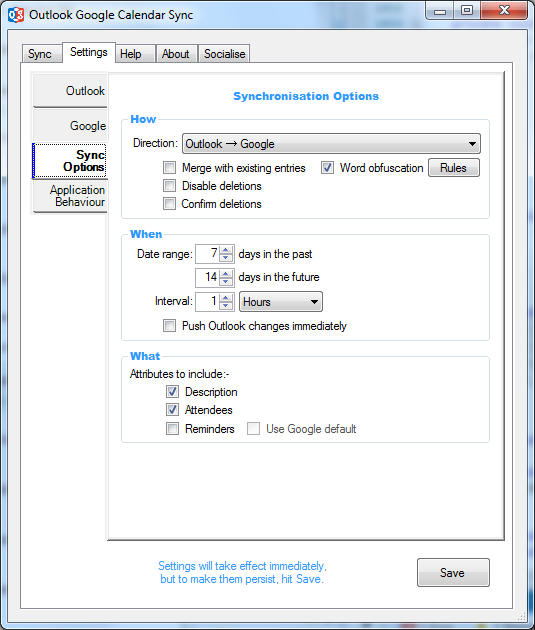
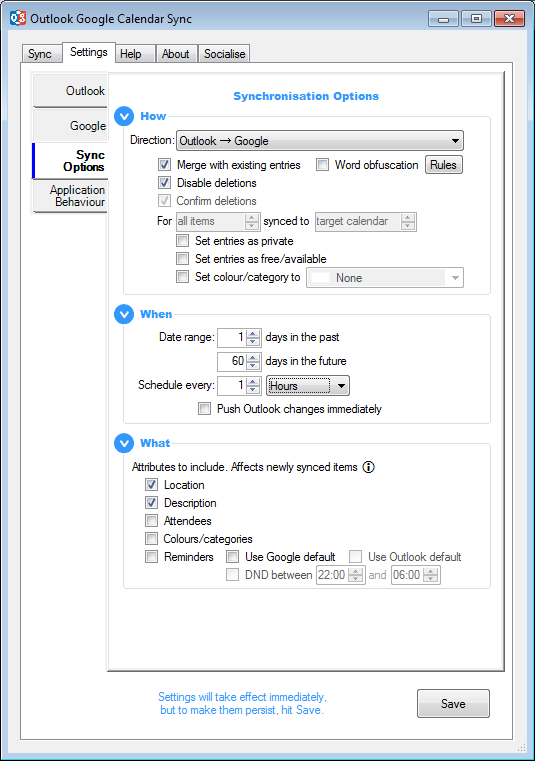
v2.8.0

Changed region(s): [[0.0, 0.0, 1.0, 1.0], [0.4785, 0.6635, 0.6879, 0.6937], [0.8972, 0.6032, 0.9271, 0.7238]]

diff --git a/src/OutlookGoogleCalendarSync/Forms/ErrorReporting.Designer.cs b/src/OutlookGoogleCalendarSync/Forms/ErrorReporting.Designer.cs
@@ -78,7 +78,7 @@
             this.lTitle.Font = new System.Drawing.Font("Microsoft Sans Serif", 11.25F, System.Drawing.FontStyle.Bold, System.Drawing.GraphicsUnit.Point, ((byte)(0)));
             this.lTitle.Location = new System.Drawing.Point(12, 9);
             this.lTitle.Name = "lTitle";
-            this.lTitle.Size = new System.Drawing.Size(190, 18);
+            this.lTitle.Size = new System.Drawing.Size(194, 18);
             this.lTitle.TabIndex = 5;
             this.lTitle.Text = "Help make OGCS better!";
             // 
@@ -153,7 +153,7 @@
             this.tbLog.Text = "";
             this.tbLog.WordWrap = false;
             // 
-            // CloudLogging
+            // ErrorReporting
             // 
             this.AcceptButton = this.btYes;
             this.AutoScaleDimensions = new System.Drawing.SizeF(6F, 13F);
@@ -172,7 +172,7 @@
             this.MaximizeBox = false;
             this.MinimizeBox = false;
             this.MinimumSize = new System.Drawing.Size(703, 431);
-            this.Name = "CloudLogging";
+            this.Name = "ErrorReporting";
             this.Text = "OGCS Error Encountered";
             this.TopMost = true;
             this.Load += new System.EventHandler(this.CloudLogging_Load);

diff --git a/src/OutlookGoogleCalendarSync/Properties/AssemblyInfo.cs b/src/OutlookGoogleCalendarSync/Properties/AssemblyInfo.cs
@@ -13,7 +13,7 @@ using System.Runtime.InteropServices;
 [assembly: AssemblyConfiguration("")]
 [assembly: AssemblyCompany("Paul Woolcock")]
 [assembly: AssemblyProduct("Outlook Google Calendar Sync")]
-[assembly: AssemblyCopyright("Copyright 2014")]
+[assembly: AssemblyCopyright("Copyright 2019")]
 [assembly: AssemblyTrademark("")]
 [assembly: AssemblyCulture("")]
 
@@ -27,7 +27,7 @@ using System.Runtime.InteropServices;
 //
 // You can specify all the values or you can use the default the Revision and 
 // Build Numbers by using the '*' as shown below:
-[assembly: AssemblyVersion("2.7.*")]
-[assembly: AssemblyFileVersion("2.7.9.0")]
+[assembly: AssemblyVersion("2.8.*")]
+[assembly: AssemblyFileVersion("2.8.0.0")]
 
 [assembly: AssemblyMetadata("SquirrelAwareVersion", "1")]

diff --git a/src/OutlookGoogleCalendarSync/Extensions/ILogExtension.cs b/src/OutlookGoogleCalendarSync/Extensions/ILogExtension.cs
@@ -100,7 +100,7 @@ namespace OutlookGoogleCalendarSync {
             Telemetry.Send(Analytics.Category.ogcs, Analytics.Action.setting, "CloudLogging=" + confirmative.ToString());
 
             try {
-                Forms.Main.Instance.SetControlPropertyThreadSafe(Forms.Main.Instance.cbCloudLogging, "Checked", confirmative);
+                Forms.Main.Instance.SetControlPropertyThreadSafe(Forms.Main.Instance.cbCloudLogging, "CheckState", confirmative ? CheckState.Checked : CheckState.Unchecked);
             } catch { }
 
             if (confirmative) replayLogs();

diff --git a/README.md b/README.md
@@ -9,7 +9,7 @@
 <img src="https://raw.githubusercontent.com/phw198/OutlookGoogleCalendarSync/master/docs/images/development.jpg" v
 align="left" width="100px"/> 
 A lot of work has gone in to this project.  
-If you would like to support me and further development of this tool, please [![donate](https://www.paypalobjects.com/en_GB/i/btn/btn_donate_SM.gif)](https://www.paypal.com/cgi-bin/webscr?cmd=_s-xclick&hosted_button_id=RT46CXQDSSYWJ&item_name=Outlook%20Google%20Calendar%20Sync%20donation.%20For%20splash%20screen%20hiding,%20enter%20your%20Gmail%20address%20in%20comment%20section)  
+If you would like to support me and further development of this tool, please [![donate](https://www.paypalobjects.com/en_GB/i/btn/btn_donate_SM.gif)](https://www.paypal.com/cgi-bin/webscr?cmd=_s-xclick&hosted_button_id=44DUQ7UT6WE2C&item_name=Outlook%20Google%20Calendar%20Sync%20donation.%20For%20splash%20screen%20hiding,%20enter%20your%20Gmail%20address%20in%20comment%20section)  
 If you find a bug, [help squash it](https://github.com/phw198/OutlookGoogleCalendarSync/wiki/Reporting-Problems)! :beetle:  
 
 
@@ -17,41 +17,25 @@ If you find a bug, [help squash it](https://github.com/phw198/OutlookGoogleCalen
 
 ## Downloads & Statistics
 :gear: [See the wiki](https://github.com/phw198/OutlookGoogleCalendarSync/wiki) for install, configuration guides and more.
-### Latest Beta Release: [![Latest Release](https://img.shields.io/github/release/phw198/OutlookGoogleCalendarSync.svg)](https://github.com/phw198/OutlookGoogleCalendarSync/releases/latest) [![Latest Release downloads](https://img.shields.io/github/downloads/phw198/outlookgooglecalendarsync/v2.7.0-beta/total.svg)](https://github.com/phw198/OutlookGoogleCalendarSync/releases/latest)
+### Latest Beta Release: [![Latest Release](https://img.shields.io/github/release/phw198/OutlookGoogleCalendarSync.svg)](https://github.com/phw198/OutlookGoogleCalendarSync/releases/latest) [![Latest Release downloads](https://img.shields.io/github/downloads/phw198/outlookgooglecalendarsync/v2.8.0-beta/total.svg)](https://github.com/phw198/OutlookGoogleCalendarSync/releases/latest)
 
-:floppy_disk: [Installer](https://github.com/phw198/OutlookGoogleCalendarSync/releases/download/v2.7.0-beta/Setup.exe)  
- &nbsp;&nbsp;&nbsp;&nbsp;&nbsp;[![](https://img.shields.io/github/downloads/phw198/outlookgooglecalendarsync/v2.7.0-beta/Setup.exe.svg)](https://github.com/phw198/OutlookGoogleCalendarSync/releases/download/v2.7.0-beta/Setup.exe)
+:floppy_disk: [Installer](https://github.com/phw198/OutlookGoogleCalendarSync/releases/download/v2.8.0-beta/Setup.exe)  
+ &nbsp;&nbsp;&nbsp;&nbsp;&nbsp;[![](https://img.shields.io/github/downloads/phw198/outlookgooglecalendarsync/v2.8.0-beta/Setup.exe.svg)](https://github.com/phw198/OutlookGoogleCalendarSync/releases/download/v2.8.0-beta/Setup.exe)
  
-:package: [Portable ZIP](https://github.com/phw198/OutlookGoogleCalendarSync/releases/download/v2.7.0-beta/Portable_OGCS_v2.7.0.zip)  
- &nbsp;&nbsp;&nbsp;&nbsp;&nbsp;[![](https://img.shields.io/github/downloads/phw198/outlookgooglecalendarsync/v2.7.0-beta/Portable_OGCS_v2.7.0.zip.svg)](https://github.com/phw198/OutlookGoogleCalendarSync/releases/download/v2.7.0-beta/Portable_OGCS_v2.7.0.zip)
+:package: [Portable ZIP](https://github.com/phw198/OutlookGoogleCalendarSync/releases/download/v2.8.0-beta/Portable_OGCS_v2.8.0.zip)  
+ &nbsp;&nbsp;&nbsp;&nbsp;&nbsp;[![](https://img.shields.io/github/downloads/phw198/outlookgooglecalendarsync/v2.8.0-beta/Portable_OGCS_v2.8.0.zip.svg)](https://github.com/phw198/OutlookGoogleCalendarSync/releases/download/v2.8.0-beta/Portable_OGCS_v2.8.0.zip)
 
 :information_source: Upgrades to this release  
- &nbsp;&nbsp;&nbsp;&nbsp;&nbsp;![](https://img.shields.io/github/downloads/phw198/outlookgooglecalendarsync/v2.7.0-beta/OutlookGoogleCalendarSync-2.7.0-beta-full.nupkg.svg)  
- &nbsp;&nbsp;&nbsp;&nbsp;&nbsp;![](https://img.shields.io/github/downloads/phw198/outlookgooglecalendarsync/v2.7.0-beta/OutlookGoogleCalendarSync-2.7.0-beta-delta.nupkg.svg)
-
-### Latest Alpha Release: [![Latest Release](https://img.shields.io/github/release/phw198/OutlookGoogleCalendarSync/all.svg)](https://github.com/phw198/OutlookGoogleCalendarSync/releases/tag/v2.7.9-alpha) [![Latest Release downloads](https://img.shields.io/github/downloads/phw198/outlookgooglecalendarsync/v2.7.9-alpha/total.svg)](https://github.com/phw198/OutlookGoogleCalendarSync/releases/v2.7.9-alpha)
-
-:floppy_disk: [Installer](https://github.com/phw198/OutlookGoogleCalendarSync/releases/download/v2.7.9-alpha/Setup.exe)  
- &nbsp;&nbsp;&nbsp;&nbsp;&nbsp;[![](https://img.shields.io/github/downloads/phw198/outlookgooglecalendarsync/v2.7.9-alpha/Setup.exe.svg)](https://github.com/phw198/OutlookGoogleCalendarSync/releases/download/v2.7.9-alpha/Setup.exe)
- 
-:package: [Portable ZIP](https://github.com/phw198/OutlookGoogleCalendarSync/releases/download/v2.7.9-alpha/Portable_OGCS_v2.7.9.zip)  
- &nbsp;&nbsp;&nbsp;&nbsp;&nbsp;[![](https://img.shields.io/github/downloads/phw198/outlookgooglecalendarsync/v2.7.9-alpha/Portable_OGCS_v2.7.9.zip.svg)](https://github.com/phw198/OutlookGoogleCalendarSync/releases/download/v2.7.9-alpha/Portable_OGCS_v2.7.9.zip)
-
-:information_source: Upgrades to this release  
- &nbsp;&nbsp;&nbsp;&nbsp;&nbsp;![](https://img.shields.io/github/downloads/phw198/outlookgooglecalendarsync/v2.7.9-alpha/OutlookGoogleCalendarSync-2.7.9-alpha-full.nupkg.svg)  
- &nbsp;&nbsp;&nbsp;&nbsp;&nbsp;![](https://img.shields.io/github/downloads/phw198/outlookgooglecalendarsync/v2.7.9-alpha/OutlookGoogleCalendarSync-2.7.9-alpha-delta.nupkg.svg)
+ &nbsp;&nbsp;&nbsp;&nbsp;&nbsp;![](https://img.shields.io/github/downloads/phw198/outlookgooglecalendarsync/v2.8.0-beta/OutlookGoogleCalendarSync-2.8.0-beta-full.nupkg.svg)  
+ &nbsp;&nbsp;&nbsp;&nbsp;&nbsp;![](https://img.shields.io/github/downloads/phw198/outlookgooglecalendarsync/v2.8.0-beta/OutlookGoogleCalendarSync-2.8.0-beta-delta.nupkg.svg)
 
 ## Functionality
-<img align="right" width="35%" src="https://github.com/phw198/OutlookGoogleCalendarSync/raw/master/docs/images/supported_sync_configs.png" alt="Supported configurations"/>
-
-- Supports all versions of Outlook from 2003 to 2016 64-bit!
+- Supports all versions of Outlook from 2003 to 2019 64-bit!
 - Installable and portable options - even runs from a USB thumbdrive
 - Synchronises items in any calendar folder, including those shared with you, from
    - Outlook :arrow_right: Google
    - Outlook :arrow_left: Google
    - Outlook :left_right_arrow: Google (two-way/bidirectional sync)
-   - :gear: See diagram on the right for supported configurations. <br/>
-     New with v2.7.6 - now supports _all_ configurations!
 - Includes the following event attributes:
    - Subject
    - Description
@@ -60,6 +44,7 @@ If you find a bug, [help squash it](https://github.com/phw198/OutlookGoogleCalen
    - Reminder events
    - Availability (free/busy)
    - Privacy (public/private)
+   - Colour / category
 - Differential comparison updates only attributes that have changed
 - Customisable date range to synchronise, past and future
 - Frequency of automatic syncs, including push-sync from Outlook

diff --git a/docs/Release Notes.md b/docs/Release Notes.md
@@ -1,6 +1,31 @@
 | Release Notes |
 |:---|
 
+# v2.8.0.0 - Beta
+
+**Enhancements** rolled in from Alpha releases
+- Sync colours / categories
+- Option to force particular colour for synced items
+- Option to not sync Outlook invites you have yet to responded to
+- Syncing a common calendar to/from more than one other now supported!
+- Added option for users to automatically feedback errors
+- Command line parameters to support multi-instance OGCS
+- Better ability to cancel a running sync
+- OGCS stays responsive whilst Oauth process takes place; can be cancelled
+- Detect Windows system timezone changes
+- Improved Push sync mechanism
+- Collapsible sections added to Sync Options configuration screen
+- Properly retrieve meeting organiser's timezone
+- G->O: Allow synced items to be assigned specific category (not just colour)
+- Show authorised Google account on Settings tab
+- Better timing of auto-retry for when quota renewed after API exhausted
+- Option to configure the browser's User Agent in the GUI
+- Options to use (or not) Outlook/Google calendar defaults for reminders
+- Don't update last sync date if sync unsuccessful
+- New window for social links; option to suppress for donors
+- Redirect users with COM errors (bad Office installs) to wiki help page
+- Use the OGCS logo for system tray notifications
+----
 # v2.7.9.0 - Alpha
 
 **Enhancements**
